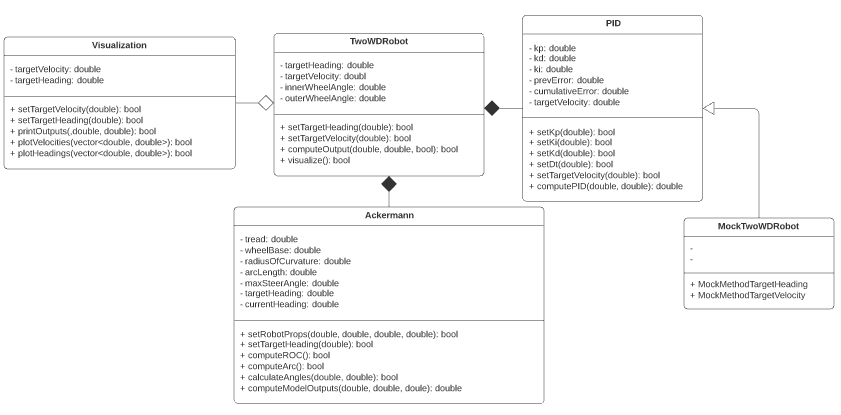
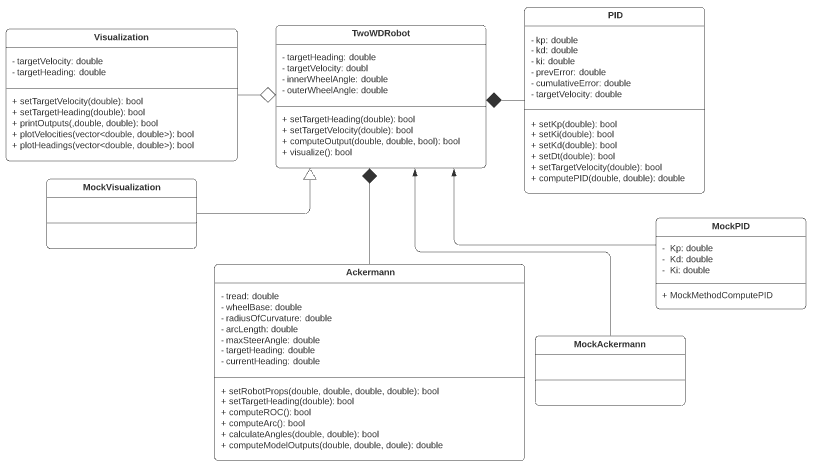
Added gmock.cpp file

diff --git a/app/GMockPID.cpp b/app/GMockPID.cpp
@@ -1,0 +1,20 @@
+/**
+ * @file testGMockPID.cpp
+ * @authors Charu Sharma
+ * @brief mock file for testing
+ * @date 2021-11-30
+ * @copyright Copyright (c) 2021
+ *
+ */
+
+#include <gtest/gtest.h>
+#include <PID.hpp>
+
+class MockPID : public PID {
+pulic: 
+    MockMethod(bool, Kp, (double), (const));
+    MockMethod(bool, Kd, (double), (const));
+    MockMethod(bool, Ki, (double), (const));
+
+    MockMethod(double, ComputePID, (targetvelocity), (double), (const));
+}
